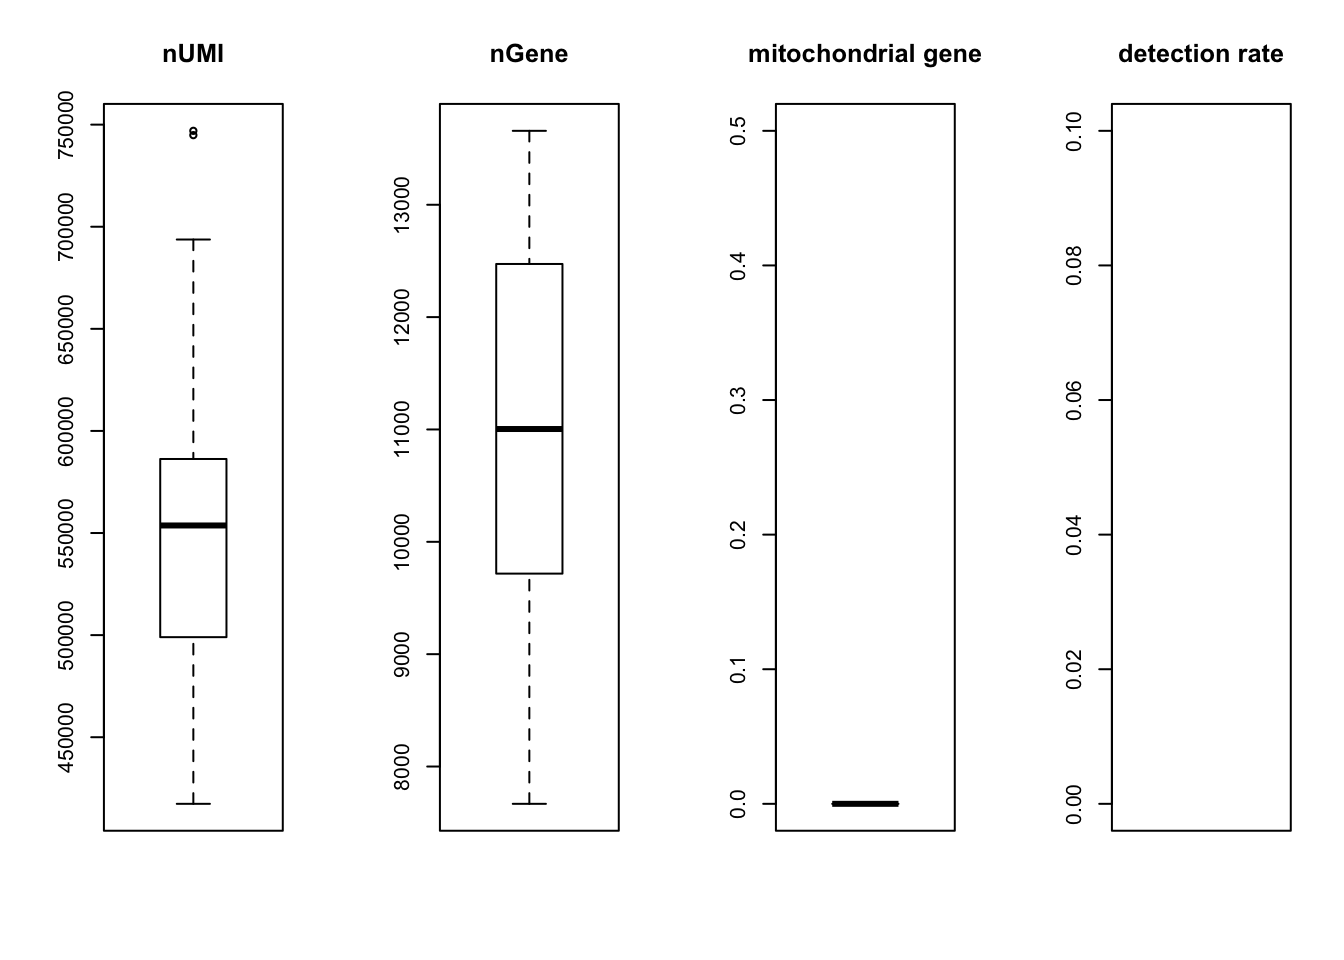
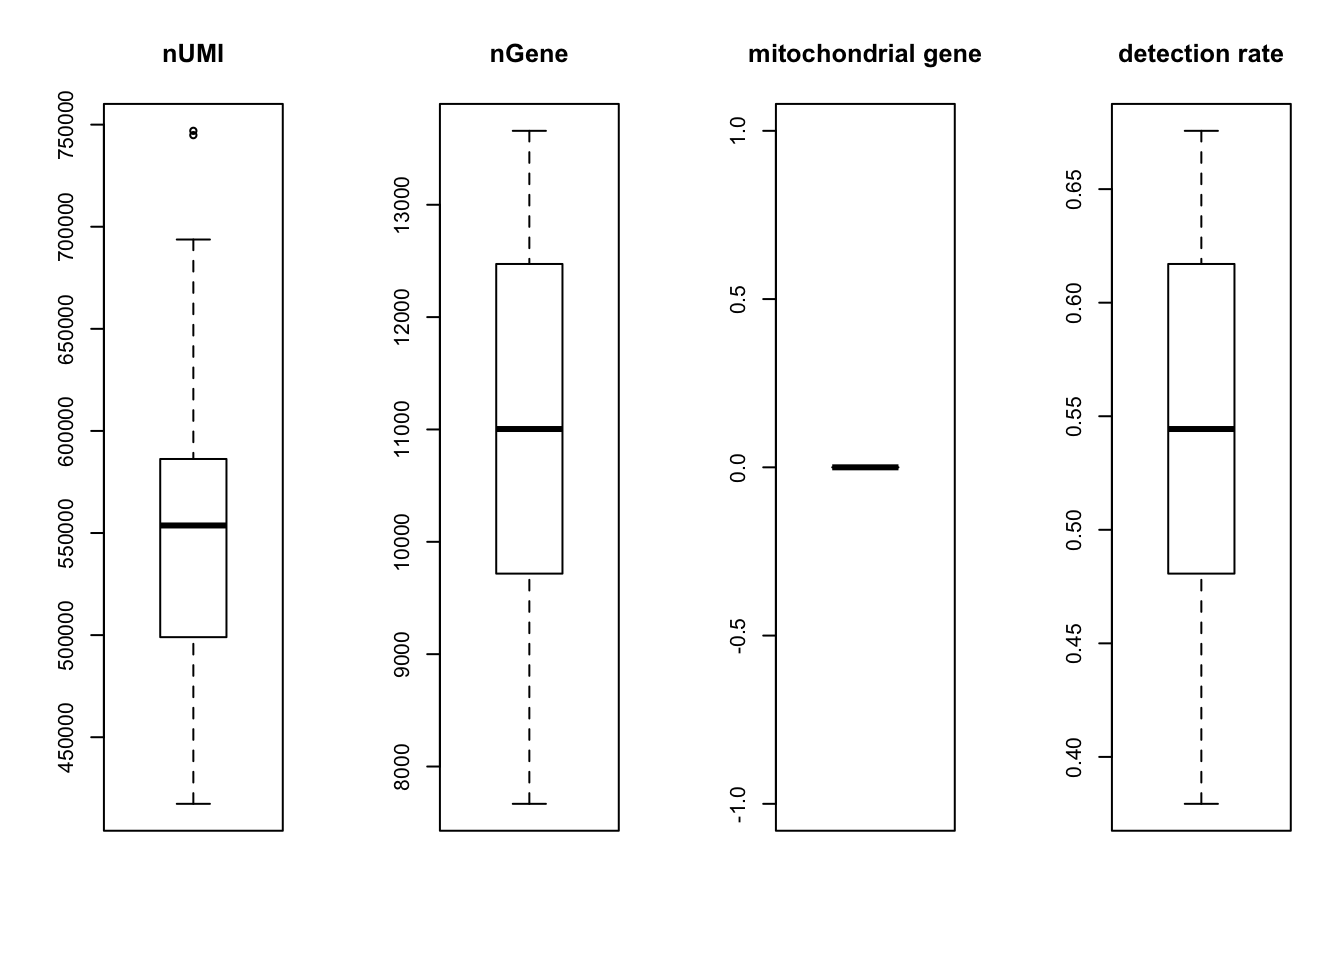
Build site.

diff --git a/docs/example_smartseq.html b/docs/example_smartseq.html
@@ -378,7 +378,7 @@ div.section {
 </details>
 </li>
 <li>
-<p><details> <summary> <strong style="color:blue;">✔</strong> <strong>Repository version:</strong> <a href="https://github.com/tk382/SCNoisyClustering/tree/fa8da961c77d65ecc65e8e3bd353852aad53acfd" target="_blank">fa8da96</a> </summary></p>
+<p><details> <summary> <strong style="color:blue;">✔</strong> <strong>Repository version:</strong> <a href="https://github.com/tk382/SCNoisyClustering/tree/7d28102523fe57bbc65625ee107d1eed667d158d" target="_blank">7d28102</a> </summary></p>
 Great! You are using Git for version control. Tracking code development and connecting the code version to the results is critical for reproducibility. The version displayed above was the version of the Git repository at the time these results were generated. <br><br> Note that you need to be careful to ensure that all relevant files for the analysis have been committed to Git prior to generating the results (you can use <code>wflow_publish</code> or <code>wflow_git_commit</code>). workflowr only checks the R Markdown file, but you know if there are other scripts or data files that it depends on. Below is the status of the Git repository when the results were generated:
 <pre><code>
 Ignored files:
@@ -395,21 +395,17 @@ Untracked files:
     Untracked:  R/myheatmap.R
     Untracked:  analysis/.DS_Store
     Untracked:  analysis/10x_heatmap.pdf
-    Untracked:  analysis/SLSL_marker_based_logcpm.pdf
     Untracked:  analysis/biomarkers.R
-    Untracked:  analysis/cellref.pdf
     Untracked:  analysis/consistency_check.R
     Untracked:  analysis/dropseq_heatmap.pdf
-    Untracked:  analysis/dropseq_sc3_result.Rdata
-    Untracked:  analysis/dropseq_slsl1.Rdata
-    Untracked:  analysis/marker-based.pdf
+    Untracked:  analysis/example_dropseq_cache/
     Untracked:  analysis/normalization_test.R
-    Untracked:  analysis/pbmcheat.pdf
-    Untracked:  analysis/pbmcref.pdf
     Untracked:  analysis/pipeline/0_dropseq/
     Untracked:  analysis/pipeline/1_10X/
     Untracked:  analysis/pipeline/2_zeisel/
     Untracked:  analysis/pipeline/3_smallsets/
+    Untracked:  analysis/slsl_10x.Rdata
+    Untracked:  analysis/slsl_dropseq.Rdata
     Untracked:  analysis/writeup/cite.log
     Untracked:  analysis/writeup/paper.aux
     Untracked:  analysis/writeup/paper.bbl
@@ -450,7 +446,6 @@ Unstaged changes:
     Modified:   NAMESPACE
     Modified:   R/RcppExports.R
     Modified:   analysis/example_10x.Rmd
-    Modified:   analysis/example_dropseq.Rmd
     Modified:   analysis/pipeline/.DS_Store
     Modified:   analysis/writeup/.DS_Store
     Modified:   data/.DS_Store
@@ -482,6 +477,40 @@ Message
 </tr>
 </thead>
 <tbody>
+<tr>
+<td style="text-align:left;">
+Rmd
+</td>
+<td style="text-align:left;">
+<a href="https://github.com/tk382/SCNoisyClustering/blob/7d28102523fe57bbc65625ee107d1eed667d158d/analysis/example_smartseq.Rmd" target="_blank">7d28102</a>
+</td>
+<td style="text-align:left;">
+tk382
+</td>
+<td style="text-align:left;">
+2018-08-30
+</td>
+<td style="text-align:left;">
+wflow_publish(“analysis/example_smartseq.Rmd”)
+</td>
+</tr>
+<tr>
+<td style="text-align:left;">
+html
+</td>
+<td style="text-align:left;">
+<a href="https://cdn.rawgit.com/tk382/SCNoisyClustering/1333c7f4da9fc6dec4abe302ea0ca99aee9d48bf/docs/example_smartseq.html" target="_blank">1333c7f</a>
+</td>
+<td style="text-align:left;">
+tk382
+</td>
+<td style="text-align:left;">
+2018-08-30
+</td>
+<td style="text-align:left;">
+Build site.
+</td>
+</tr>
 <tr>
 <td style="text-align:left;">
 html
@@ -562,8 +591,8 @@ det.rate =<span class="st"> </span>summaryX<span class="op">$</span>det.rate
 <span class="kw">par</span>(<span class="dt">mfrow =</span> <span class="kw">c</span>(<span class="dv">1</span>,<span class="dv">4</span>))
 <span class="kw">boxplot</span>(nUMI, <span class="dt">main=</span><span class="st">&#39;nUMI&#39;</span>); 
 <span class="kw">boxplot</span>(nGene, <span class="dt">main=</span><span class="st">&#39;nGene&#39;</span>); 
-<span class="kw">boxplot</span>(percent.mito, <span class="dt">main=</span><span class="st">&#39;mitochondrial gene&#39;</span>, <span class="dt">ylim=</span><span class="kw">c</span>(<span class="dv">0</span>,<span class="fl">0.5</span>)); 
-<span class="kw">boxplot</span>(det.rate, <span class="dt">main=</span><span class="st">&#39;detection rate&#39;</span>, <span class="dt">ylim=</span><span class="kw">c</span>(<span class="dv">0</span>,<span class="fl">0.1</span>))</code></pre></div>
+<span class="kw">boxplot</span>(percent.mito, <span class="dt">main=</span><span class="st">&#39;mitochondrial gene&#39;</span>); 
+<span class="kw">boxplot</span>(det.rate, <span class="dt">main=</span><span class="st">&#39;detection rate&#39;</span>)</code></pre></div>
 <p><img src="figure/example_smartseq.Rmd/cell_filter-2.png" width="672" style="display: block; margin: auto;" /></p>
 <details> <summary><em>Expand here to see past versions of cell_filter-2.png:</em></summary>
 <table style="border-collapse:separate; border-spacing:5px;">
@@ -861,6 +890,23 @@ tk382
 </tbody>
 </table>
 <p></details></p>
+</div>
+<div id="differentially-expressed-genes" class="section level2">
+<h2>Differentially Expressed Genes</h2>
+<div class="sourceCode"><pre class="sourceCode r"><code class="sourceCode r">p =<span class="st"> </span><span class="kw">rep</span>(<span class="dv">0</span>, <span class="kw">nrow</span>(log.cpm))
+<span class="cf">for</span> (i <span class="cf">in</span> <span class="dv">1</span><span class="op">:</span><span class="kw">nrow</span>(log.cpm)){
+  p[i] =<span class="st"> </span><span class="kw">kruskal.test</span>(log.cpm[i,], <span class="kw">as.factor</span>(out<span class="op">$</span>result))<span class="op">$</span>p.value
+}
+sorted_p =<span class="st"> </span><span class="kw">sort</span>(<span class="op">-</span><span class="kw">log10</span>(p), <span class="dt">index.return=</span><span class="ot">TRUE</span>, <span class="dt">decreasing =</span> <span class="ot">TRUE</span>)
+
+sorted_type =<span class="st"> </span><span class="kw">sort</span>(out<span class="op">$</span>result, <span class="dt">index.return=</span><span class="ot">TRUE</span>)<span class="op">$</span>ix
+<span class="kw">par</span>(<span class="dt">mfrow =</span> <span class="kw">c</span>(<span class="dv">2</span>,<span class="dv">3</span>))
+<span class="cf">for</span> (i <span class="cf">in</span> <span class="dv">1</span><span class="op">:</span><span class="dv">6</span>){
+  <span class="kw">plot</span>(log.cpm[sorted_p<span class="op">$</span>ix[i], sorted_type], <span class="dt">col =</span> <span class="kw">as.factor</span>(out<span class="op">$</span>result[sorted_type]),
+       <span class="dt">main =</span> genenames[sorted_p<span class="op">$</span>ix[i]], <span class="dt">cex=</span><span class="fl">0.5</span>,
+       <span class="dt">ylab =</span> <span class="st">&#39;pre-processed log expression&#39;</span>, <span class="dt">xlab=</span><span class="st">&#39;cells&#39;</span>)
+}</code></pre></div>
+<p><img src="figure/example_smartseq.Rmd/find_markers-1.png" width="672" style="display: block; margin: auto;" /></p>
 </div>
 <div id="session-information" class="section level2">
 <h2>Session information</h2>
